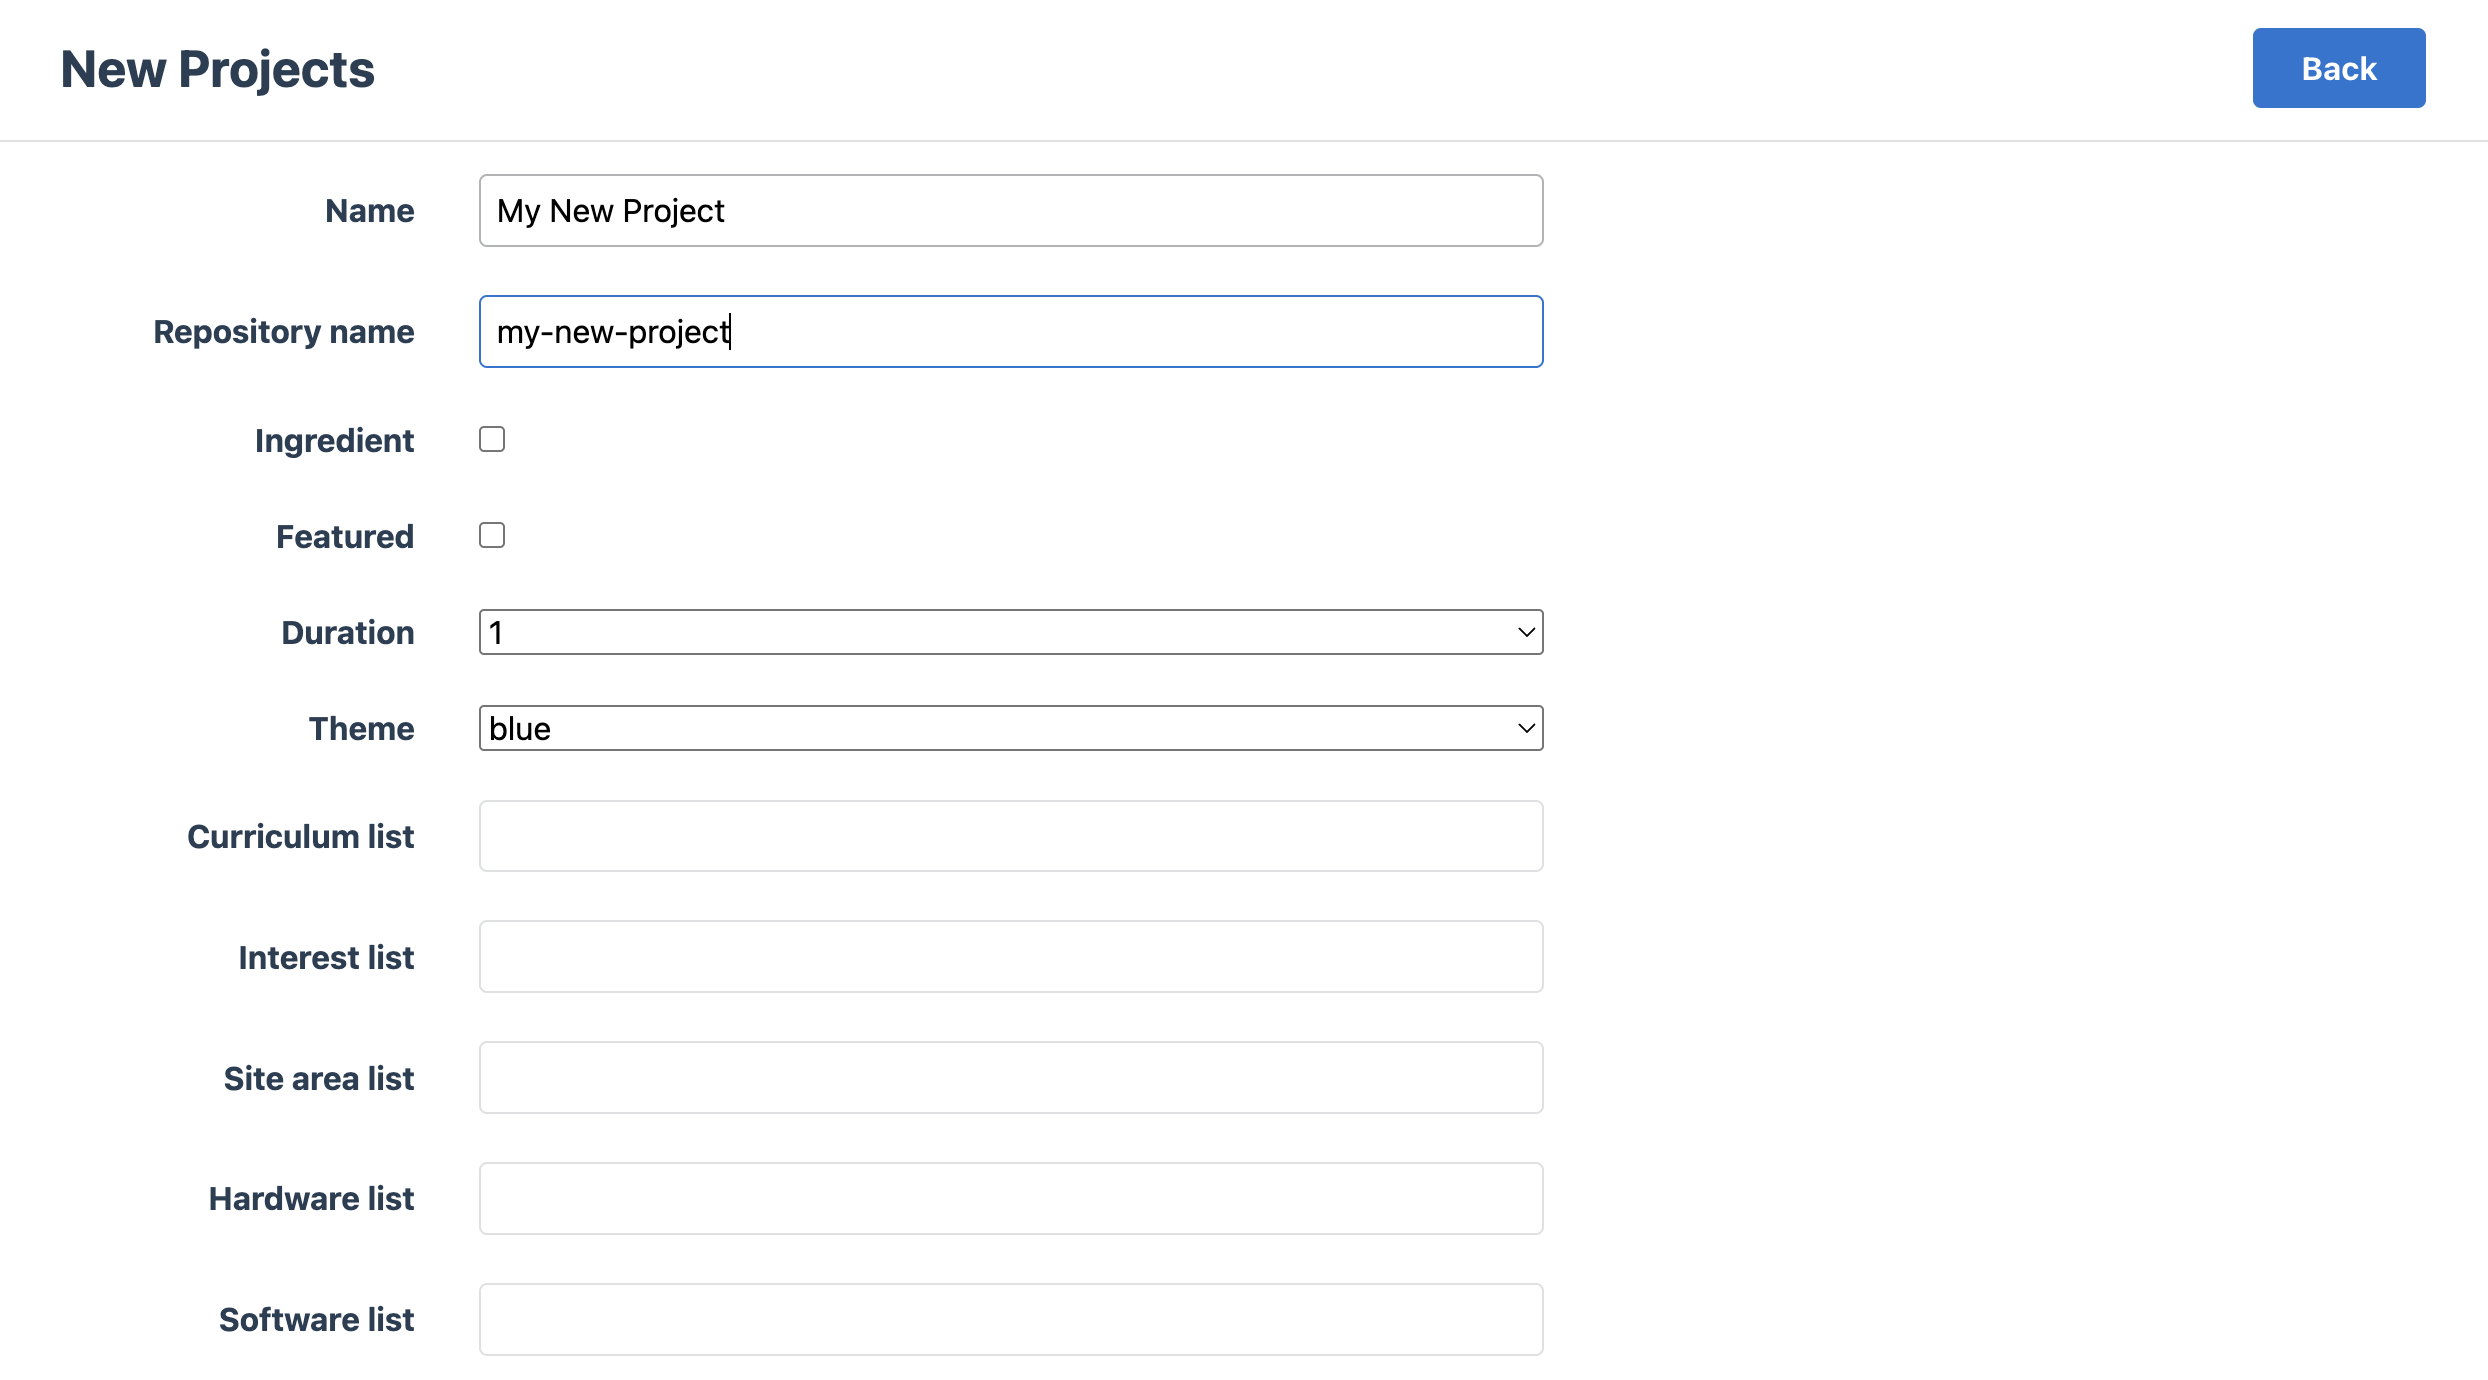
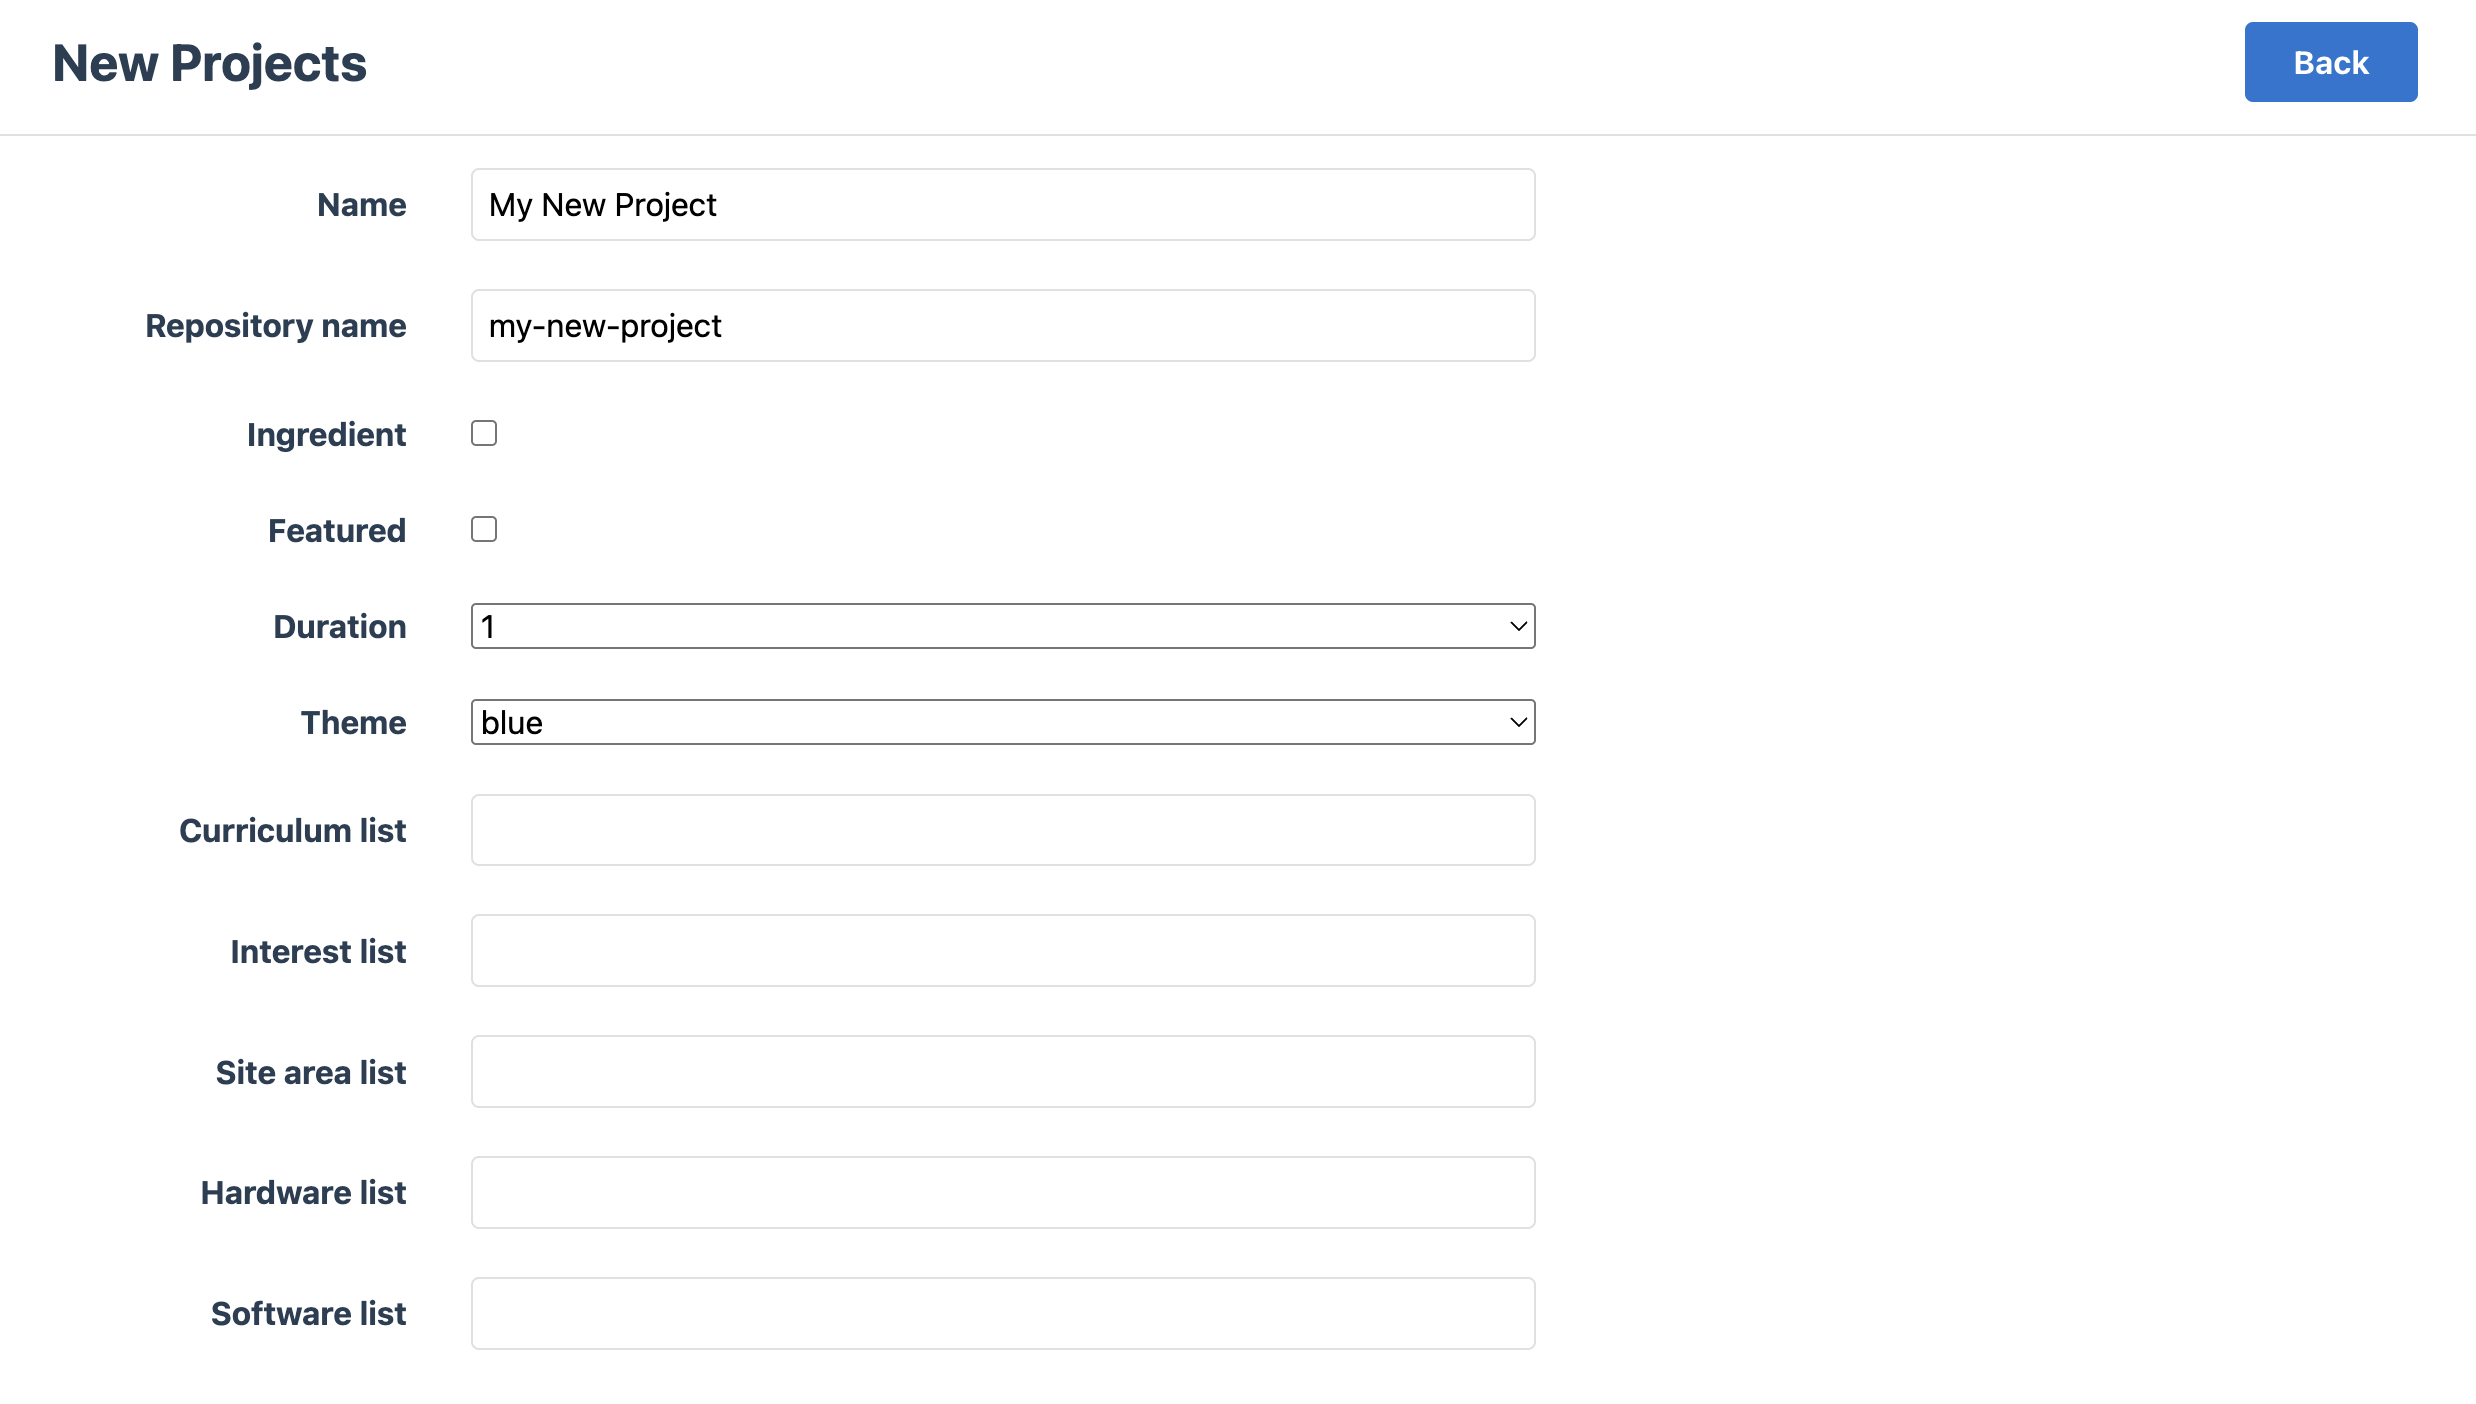
New section and screenshot

diff --git a/en/step_2.md b/en/step_2.md
@@ -43,7 +43,21 @@ New projects are created in Raspberry Pi Learning Admin.
 
 1. **Editor starter project:** If created in Code Editor type name in here e.g. my-new-project
 
+This meta data can be added immediately or added in if needed, later on.
+
 
 ![Project Fields 1](images/Project_1.png)
 ![Project Fields 2](images/Project_2.png)
 
+
+### Troubleshooting
+
+## Errors when creating your project
+
+When you press ‘Create Project’ you may find that this doesn’t work and you get an error message.
+
+
+![Error Message](images/Error_Message.png)
+
+
+This is an issue with the database and not something that you’ve done wrong. However, you now need to **delete this in the learning admin database and in GitHub** before starting the create a project process again.

diff --git a/en/step_1.md b/en/step_1.md
@@ -37,7 +37,7 @@ Learning admin is the database where the project is created. This database turns
 ![GitHub Desktop App](images/GitHub_Desktop.png)
 
 
-## Visual Studio (VS) Code
+## Accessing Visual Studio (VS) Code
 - Download the VS Code desktop app via Kandji
 - No login details are required just open and start using
 
